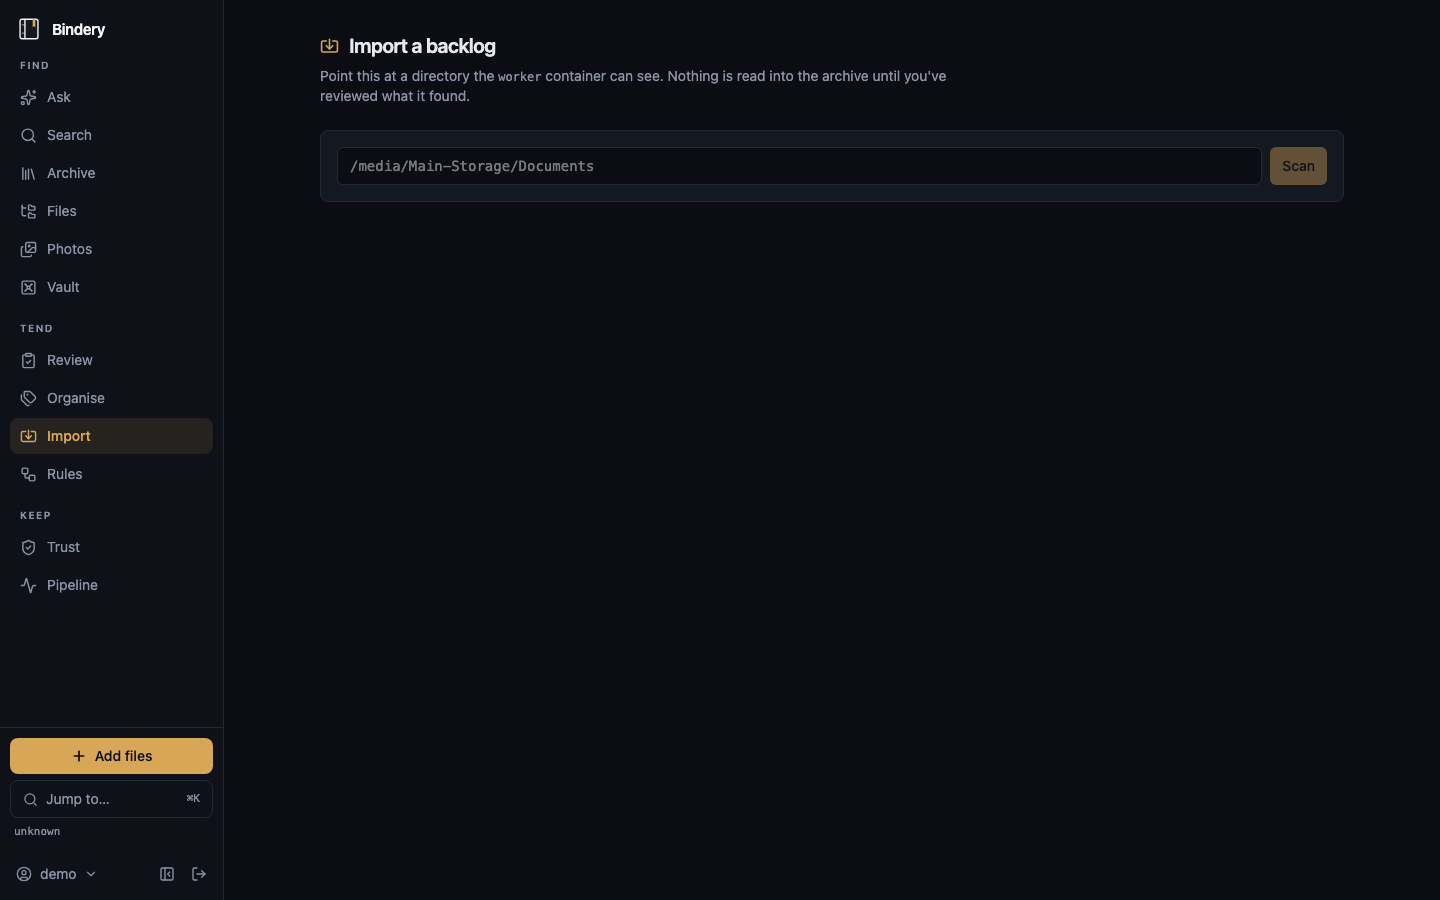
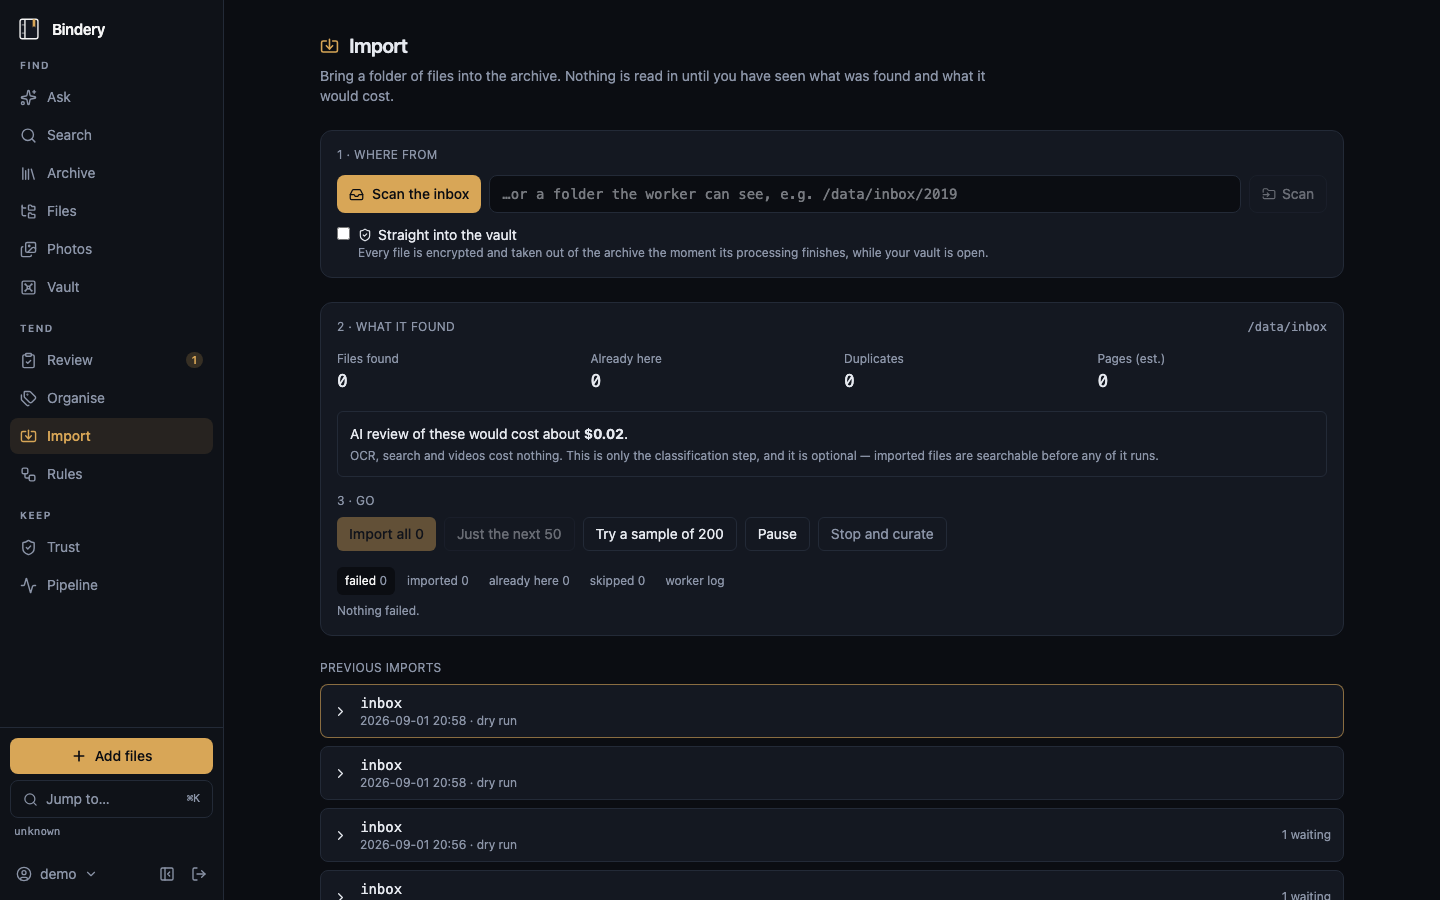
Photos opens on whichever tab has something in it
An archive whose only pictures are videos should not open on an empty
Photos tab. Same reasoning, and the same shape, as the vault's tabs.

diff --git a/web/src/features/photos/PhotosPage.tsx b/web/src/features/photos/PhotosPage.tsx
@@ -24,7 +24,11 @@ type Kind = "image" | "video";
  * classified, so "nothing said about these" does not apply to it.
  */
 export default function PhotosPage() {
-  const [kind, setKind] = useState<Kind>("image");
+  // Null until chosen, so the first view can follow what is actually there:
+  // an archive whose only pictures are videos should not open on an empty
+  // Photos tab. Same reasoning as the vault's tabs.
+  const [chosen, setChosen] = useState<Kind | null>(null);
+  const [imageCount, setImageCount] = useState<number | null>(null);
   const [photos, setPhotos] = useState<Photo[]>([]);
   const [total, setTotal] = useState(0);
   const [videoCount, setVideoCount] = useState<number | null>(null);
@@ -34,22 +38,30 @@ export default function PhotosPage() {
   const [describing, setDescribing] = useState(false);
   const [outcome, setOutcome] = useState<string | null>(null);
 
+  const kind: Kind =
+    chosen ?? (imageCount === 0 && (videoCount ?? 0) > 0 ? "video" : "image");
+
   const load = useCallback(async () => {
+    // Both counts every time, so each tab label says whether there is anything
+    // behind it without making you click to find out — and so the default tab
+    // can be decided from what is there.
+    const [images, videos] = await Promise.all([
+      api.photos({ kind: "image", limit: 1 }),
+      api.photos({ kind: "video", limit: 1 }),
+    ]);
+    setImageCount(images.total);
+    setVideoCount(videos.total);
+    const showing: Kind =
+      chosen ?? (images.total === 0 && videos.total > 0 ? "video" : "image");
     const wall = await api.photos({
       q: q || undefined,
-      undescribed: kind === "image" ? undescribed : false,
+      undescribed: showing === "image" ? undescribed : false,
       limit: 200,
-      kind,
+      kind: showing,
     });
     setPhotos(wall.photos);
     setTotal(wall.total);
-    // The other tab's count, so the tab label can say whether there is anything
-    // behind it without making you click to find out.
-    if (kind === "image") {
-      const videos = await api.photos({ kind: "video", limit: 1 });
-      setVideoCount(videos.total);
-    }
-  }, [q, undescribed, kind]);
+  }, [q, undescribed, chosen]);
 
   useLiveQuery(["documents", "files"], load);
 
@@ -85,13 +97,13 @@ export default function PhotosPage() {
       <div className="flex gap-1 border-b border-edge">
         {(["image", "video"] as const).map((which) => {
           const Icon = which === "image" ? Images : Film;
-          const count = which === "image" ? (kind === "image" ? total : null) : videoCount;
+          const count = which === "image" ? imageCount : videoCount;
           return (
             <button
               key={which}
               type="button"
               onClick={() => {
-                setKind(which);
+                setChosen(which);
                 setSelected(null);
               }}
               className={`-mb-px flex items-center gap-1.5 border-b-2 px-3 py-2 text-sm ${
